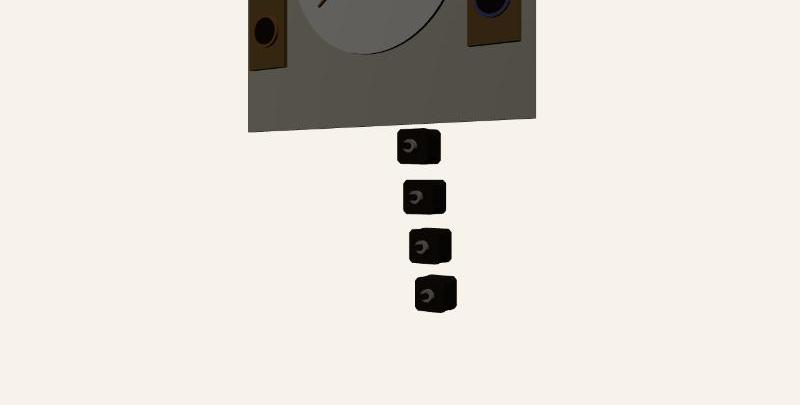
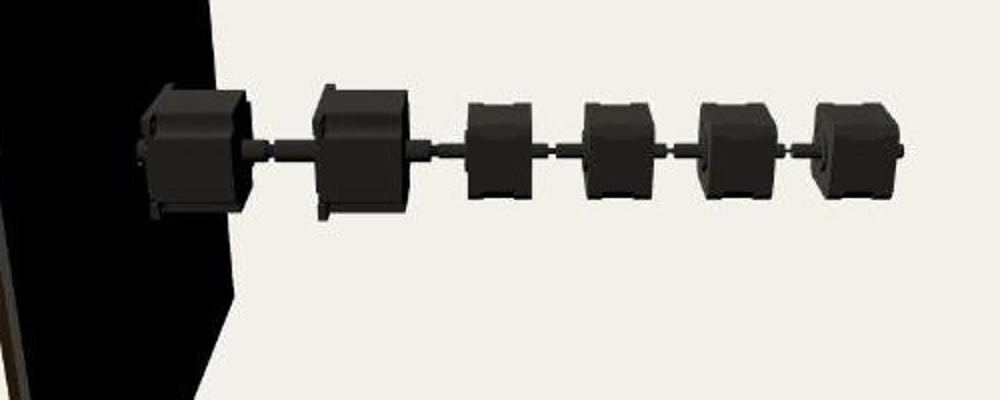
Hollow-shaft stack in viewer and PDF; lighter motors; tidy layout

diff --git a/viewer/index.html b/viewer/index.html
@@ -123,7 +123,12 @@ new GLTFLoader().load('weasley_clock.glb.wasm', g => {
   g.scene.rotation.x = Math.PI / 2;   // file is z-up; the scene is y-up
   g.scene.traverse(m => {
     if (m.name && m.name.startsWith('case_')) caseParts.push(m);
-    if (m.isMesh) m.material.side = T.DoubleSide;
+    if (m.isMesh) {
+      m.material.side = T.DoubleSide;
+      for (let p = m; p; p = p.parent) {
+        if (p.name && p.name.startsWith('motor_')) { m.material = m.material.clone(); m.material.color.set('#8C857A'); break; }
+      }
+    }
   });
   scene.add(g.scene);
   status.remove();

diff --git a/docs/build_design_doc.py b/docs/build_design_doc.py
@@ -79,7 +79,7 @@ story.append(table([
     ["Hardware plan", link(PLAN, "Weasley Clock Hardware Plan") + " (architecture, parts, costs, build phases)"],
     ["Order checklist", link(CHECKLIST, "Weasley Clock Order Checklist")],
     ["Circuit diagram", link(CIRCUIT, "Weasley Clock Circuit Diagram") + " (pin-level wiring)"],
-    ["3D model (interactive)", link(VIEWER, "Weasley Clock CAD viewer") + " (still shows an earlier belt-driven motor layout; being updated to the hollow-shaft stack in section 3)"],
+    ["3D model (interactive)", link(VIEWER, "Weasley Clock CAD viewer") + " (case, dial, hands, screens and the motor stack)"],
     ["Code and CAD files", link(REPO)],
 ], [1.5 * inch, W - 1.5 * inch], head=False))
 story.append(Paragraph("The pages and the repository are private. Austin needs to share each page from its Share menu and add each brother as a collaborator on GitHub before the links open for them.", small))
@@ -140,9 +140,14 @@ story.append(Paragraph(
     "Between tubes 3 and 4 the diameter drops by more than one standard step, because tube 4 must clear the 4 mm bore of the level 3 motor. "
     "That one interface needs a small guide bushing; every other interface is a standard consecutive size. "
     "Which of Becky and Evan takes level 1, and the order of Caleb, Austin and Micah, are not yet decided.", small))
+story.append(img("docs/img/view_drive.jpg", W * 0.62))
+story.append(Paragraph("The motor stack seen from the side with the case hidden: two NEMA23 motors in front, four NEMA17 behind, shafts passing through each other's bores.", small))
 story.append(Paragraph(
-    "The estimated stack depth is 300 to 320 mm. A jam anywhere in the stack can bind every hand behind it. "
-    "We accepted that in exchange for the authentic single-pivot look.", body))
+    "The hardware plan estimated a stack depth of 300 to 320 mm. In the CAD, using the vendor models, it comes to about 420 mm, "
+    "from the front tip of the first motor shaft to the rear tip of the last, because each hollow shaft sticks out of both ends of its motor "
+    "(25 mm front and 58 mm rear on the NEMA23, 16 mm and 43 mm on the NEMA17) and 4 mm is left between motors for the couplings. "
+    "That is deeper than the plan assumed, so the case measurements matter. A jam anywhere in the stack can bind every hand behind it; "
+    "we accepted that in exchange for the single-pivot look.", body))
 
 # ---------------------------------------------------------------- 4 screens
 story.append(Paragraph("4. Screens and moving pictures", h1))
@@ -152,16 +157,16 @@ story.append(Paragraph(
     "The content is real recorded footage of each person: a 3 to 5 second loop, cropped to a circle, resized to 240 by 240 and "
     "re-encoded as a short frame sequence that fits in the ESP32's flash. A screen also changes state (home, travelling, unknown) on an MQTT command. "
     "In the CAD each module is 39.5 mm across with a 32.4 mm active area.", body))
-story.append(img("docs/img/view_hood.jpg", W * 0.62))
+story.append(img("docs/img/view_hood.jpg", W * 0.5))
 story.append(Paragraph("Dial, hands and side screens, from the 3D viewer.", small))
 
 story.append(Paragraph("5. Case", h1))
 story.append(Paragraph(
     "A basic outline taken from the reference photos of the family grandfather clock: a plinth, a hollow trunk, an arched hood "
     "with a broken swan-neck pediment and finial, and an arched dial plate. The original movement, weights and pendulum come out. "
-    "The motor stack runs down from behind the dial through the seat-board opening into the trunk, and the dial's brass corner pieces "
-    "can be reused around a new chapter ring. The outline is a rough shape for checking fit, about 2 m tall, not measured from the real case.", body))
-story.append(img("docs/img/view_front.jpg", W * 0.46))
+    "The motor stack runs straight back from the dial, and the dial's brass corner pieces "
+    "can be reused around a new chapter ring. The outline is a rough shape, about 2 m tall and 495 mm deep (sized to hold the motor stack), not measured from the real case.", body))
+story.append(img("docs/img/view_front.jpg", W * 0.36))
 story.append(Paragraph("Full case from the front, from the 3D viewer.", small))
 
 # ---------------------------------------------------------------- 6 electronics
@@ -196,8 +201,8 @@ story += bullets([
     "Finish code controlling dynamics and updates and visual displays",
 ])
 story.append(Paragraph(
-    "The case dimensions decide whether the hub fits as planned: hood depth, trunk depth, and the narrowest interior width "
-    "(the NEMA23 frame is 57 mm square, the widest part of the stack).", small))
+    "The case dimensions decide whether the hub fits: hood depth, trunk depth, and the narrowest interior width. "
+    "The CAD stack is about 420 mm deep and the NEMA23 frame is 57 mm square, the widest part of it.", small))
 
 story.append(Paragraph("Files and rebuilding the CAD", h1))
 story.append(Paragraph(
